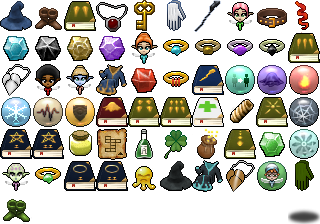
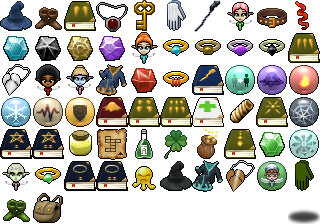
ADD New Item: Bag

Changed region(s): [[0.0938, 0.8438, 0.2188, 1.0]]

diff --git a/src/Items.h b/src/Items.h
@@ -140,6 +140,7 @@ enum enumItemType
   ItemSpellFairy,
   ItemGlovesAdvanced,
   ItemBootsAdvanced,
+  ItemBag,
 
   NUMBER_ITEMS
 };
@@ -216,11 +217,11 @@ const itemStuct items[NUMBER_ITEMS] =
     10, false, FamiliarNone, true, true, false, 1, RarityCommon, false, -1, ShotTypeStandard, SpellNone, true
   },
   {
-    ItemPotionRed, "item_potion_red", "item_potion_red_desc",
+    ItemPotionRed, "item_potion_red", "item_potion_desc",
     10, false, FamiliarNone, true, true, false, 1, RarityRare, false, -1, ShotTypeStandard, SpellNone, true
   },
   {
-    ItemPotionGreen, "item_potion_green", "item_potion_green_desc",
+    ItemPotionGreen, "item_potion_green", "item_potion_desc",
     10, false, FamiliarNone, true, true, false, 1, RarityRare, false, -1, ShotTypeStandard, SpellNone, true
   },
 
@@ -469,6 +470,10 @@ const itemStuct items[NUMBER_ITEMS] =
     ItemBootsAdvanced, "item_boots_advanced", "item_boots_advanced_desc",
     35, true, FamiliarNone, true, true, true, 2, RarityUncommon, false, ItemLeatherBoots, ShotTypeStandard, SpellNone, false
   },
+  {
+    ItemBag, "item_bag", "item_bag_desc",
+    20, true, FamiliarNone, true, true, true, 2, RarityUncommon, false, ItemLeatherBoots, ShotTypeStandard, SpellNone, false
+  },
 };
 
 /** Item equipment type enum
@@ -536,6 +541,7 @@ enum item_equip_enum {
   EQUIP_SPELL_FAIRY,
   EQUIP_GLOVES_ADVANCED,
   EQUIP_BOOTS_ADVANCED,
+  EQUIP_BAG,
 
   NUMBER_EQUIP_ITEMS
   };
@@ -552,6 +558,7 @@ const std::vector<item_equip_enum> sortedEquipement =
   EQUIP_DISPLACEMENT_GLOVES,
   EQUIP_GLOVES_ADVANCED,
   EQUIP_LEATHER_BELT,
+  EQUIP_BAG,
   EQUIP_RAGE_AMULET,
   EQUIP_CRITICAL,
   EQUIP_CRITICAL_ADVANCED,
